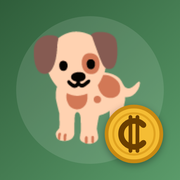
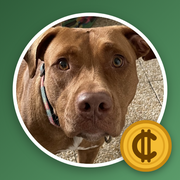
Icône et photo de Roxy : la vraie tête de Roxy
Claude-Session: https://claude.ai/code/session_01YFgBS2TC4Rmifn6RL9GQv4

diff --git a/index.html b/index.html
@@ -408,7 +408,7 @@
 <script>
 (() => {
   "use strict";
-  const APP_VERSION = "2026-11-14.152445";   // à changer à chaque mise en ligne (voir CLAUDE.md)
+  const APP_VERSION = "2026-11-14.152619";   // à changer à chaque mise en ligne (voir CLAUDE.md)
 
   // ---------- Réglages ----------
   const SPEED_KMH = 3.5;
@@ -479,7 +479,8 @@
   const isBday = t => { if (!ROXY_BDAY) return false; const d = new Date(t || Date.now()); return `${String(d.getMonth() + 1).padStart(2, "0")}-${String(d.getDate()).padStart(2, "0")}` === ROXY_BDAY; };
   const ACC_SLOT = { "🎀":"a-bow", "🧣":"a-scarf", "🕶":"a-glasses", "🎩":"a-hat", "👑":"a-hat" };
   const accList = a => Array.isArray(a) ? a : (a ? [a] : []);
-  const avatar = () => { try{ return localStorage.getItem("wouaf-avatar") || ""; }catch(e){ return ""; } };
+  // photo de Roxy : celle choisie sur ce téléphone, sinon la photo officielle (roxy.jpg)
+  const avatar = () => { try{ return localStorage.getItem("wouaf-avatar") || "roxy.jpg"; }catch(e){ return "roxy.jpg"; } };
   const roxyHTML = list => { if (isBday()) list = list.filter(e => ACC_SLOT[e] !== "a-hat").concat("🥳"); const av = avatar(); return `<div class="roxy${av ? " ph" : ""}"${av ? ` style="background-image:url(${av})"` : ""}>${av ? "" : "<span>🐕</span>"}${list.map(e => `<i class="${e === "🥳" ? "a-hat" : (ACC_SLOT[e] || "a-bow")}">${e === "🥳" ? "🎉" : e}</i>`).join("")}</div>`; };
   function youIcon(){
     let a = []; try{ a = accList(JSON.parse(localStorage.getItem("wouaf-jeu") || "{}").acc); }catch(e){}
@@ -1522,7 +1523,7 @@
   }
   async function savePhoto(file){
     const b = await shrink(file);
-    if (!avatar()) setAvatarFrom(b);   // la première photo de Roxy devient son avatar
+
     await phTx("readwrite", st => st.put({ t: Date.now(), w: profile.walker || "", b }));
     const keys = await phTx("readonly", st => st.getAllKeys());
     if (keys.length > PH_MAX) await phTx("readwrite", st => { for (const k of keys.slice(0, keys.length - PH_MAX)) st.delete(k); });

diff --git a/CLAUDE.md b/CLAUDE.md
@@ -165,9 +165,9 @@ Web app (un seul `index.html`) publiée sur GitHub Pages : https://9wsv9ngdft-cm
 - En-tête sans sous-titre ; crédits repliés dans « À propos » (pied de page `<details>`).
 - ✨ « Quoi de neuf » (`startupDigest`) : une seule fenêtre à cartes qui défilent (nouveautés, malus, message du superviseur,
   jour de paie, semaine) ; remplace `showNews` / `showMalus` / `applyAdjust` / `offerPayday` / `offerWeek` à l'ouverture.
-- 🐕 Avatar : la 1re photo de Roxy devient sa photo (`wouaf-avatar`, 200 px), changeable depuis l'album (« En faire la photo de Roxy ») ;
+- 🐕 Avatar : photo officielle `roxy.jpg` (envoyée par l'utilisateur le 14/11), remplaçable sur un téléphone depuis l'album (« En faire la photo de Roxy », `wouaf-avatar`) ;
   `roxyHTML` l'utilise partout (accueil, carte, fiches), accessoires par-dessus.
 - 🎉 `confetti()` : coffre, trésor, paie, record, fin du tuto, niveau / album / trophée au récap.
 - 🧾 Récap façon ticket (grosse somme de clebsous, photo de Roxy), « Le détail » en dessous.
 - 🌙 Mode sombre automatique (`prefers-color-scheme: dark`, bloc CSS en fin de `<style>`).
-- Nouvelle icône (Roxy + pièce de clebsous) : icon-180/192/512.png (iOS garde l'ancienne icône tant que l'app n'est pas ré-ajoutée).
+- Icône = vraie tête de Roxy (photo du 14/11) dans un cercle + pièce de clebsous : icon-180/192/512.png (iOS garde l'ancienne icône tant que l'app n'est pas ré-ajoutée).
